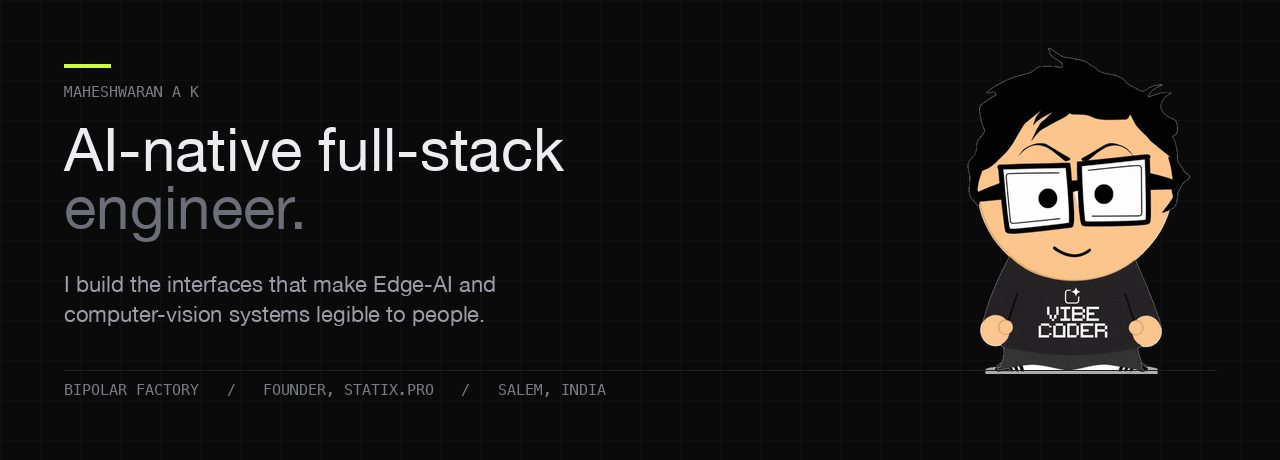
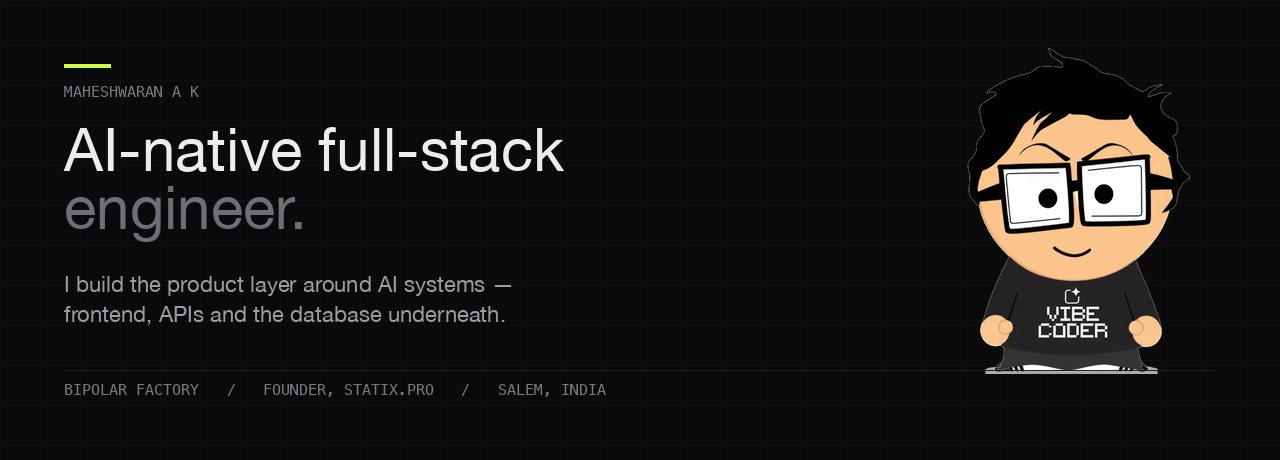
Correct the positioning
I build the product layer around AI systems, not the models. Reworded
the intro and banner so the copy says full-stack, not ML engineer.

Changed region(s): [[0.0312, 0.6696, 0.4062, 0.7], [0.125, 0.5783, 0.4062, 0.6391]]

diff --git a/README.md b/README.md
@@ -1,12 +1,14 @@
 <img src="banner.png" alt="Maheshwaran A K — AI-native full-stack engineer" width="100%">
 
-I'm a full-stack engineer in Salem, India. I work on the layer where machine
-learning stops being a model and starts being something a person can act on.
+I'm a full-stack engineer in Salem, India — **React and TypeScript** on the front,
+**FastAPI and Node** behind, **Postgres and MySQL** underneath.
 
-Right now I'm at **Bipolar Factory**, building the central command center for
-enterprise retail analytics — turning real-time Edge-AI inference into footfall
-heatmaps, demographics and ANPR that store operators actually use. Before that I
-founded **Statix.pro** and took its products from 0 to 1.
+Right now I'm at **Bipolar Factory** building the retail-analytics command center:
+the dashboards, APIs and data models that turn what the platform's AI systems
+output into footfall heatmaps, demographics and ANPR views operators can act on.
+I don't train the models — I build everything around them.
+
+Before that I founded **Statix.pro** and took its products from 0 to 1.
 
 ---
 
